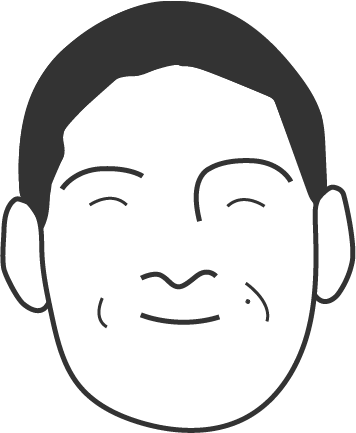
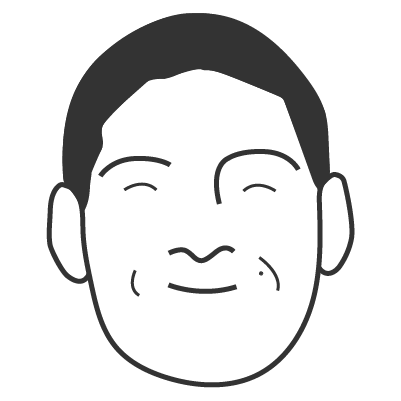
API routes lesson + adding personal description :party:

Changed region(s): [[0.0, 0.0, 1.0, 1.0], [0.4017, 0.5985, 0.618, 0.6883]]

diff --git a/pages/index.js b/pages/index.js
@@ -21,11 +21,11 @@ export default function Home({ allPostsData }) {
         <title>{siteTitle}</title>
       </Head>
       <section className={utilStyles.headingMd}>
-        <p>Hello, I'm Massi. I'm a person that love learn something new every day.</p>
+        <p>Hello, I'm Massi a person that love learn something new every day.</p>
         <p>
-          (This is a sample website - you’ll be building a site like this on{' '}
-          <a href="https://nextjs.org/learn">our Next.js tutorial</a>.)
+          I coded this sample blog from the <a href="https://nextjs.org/learn">Next.js tutorial</a>
         </p>
+        <p>If you would like to talk. <a href="https://twitter.com/massimokris">Send me a Twitter DM</a></p>
       </section>
       <section className={`${utilStyles.headingMd} ${utilStyles.padding1px}`}>
         <h2 className={utilStyles.headingLg}>Blog</h2>

diff --git a/components/layout.js b/components/layout.js
@@ -33,7 +33,7 @@ export default function Layout({ children, home }) {
               priority
               src="/images/profile.png"
               className={utilStyles.borderCircle}
-              height={170}
+              height={150}
               width={150}
               alt={name}
             />

diff --git a/pages/api/hello.js b/pages/api/hello.js
@@ -1,0 +1,3 @@
+export default function handler(req, res) {
+    res.status(200).json({ text: 'Hello' })
+}
